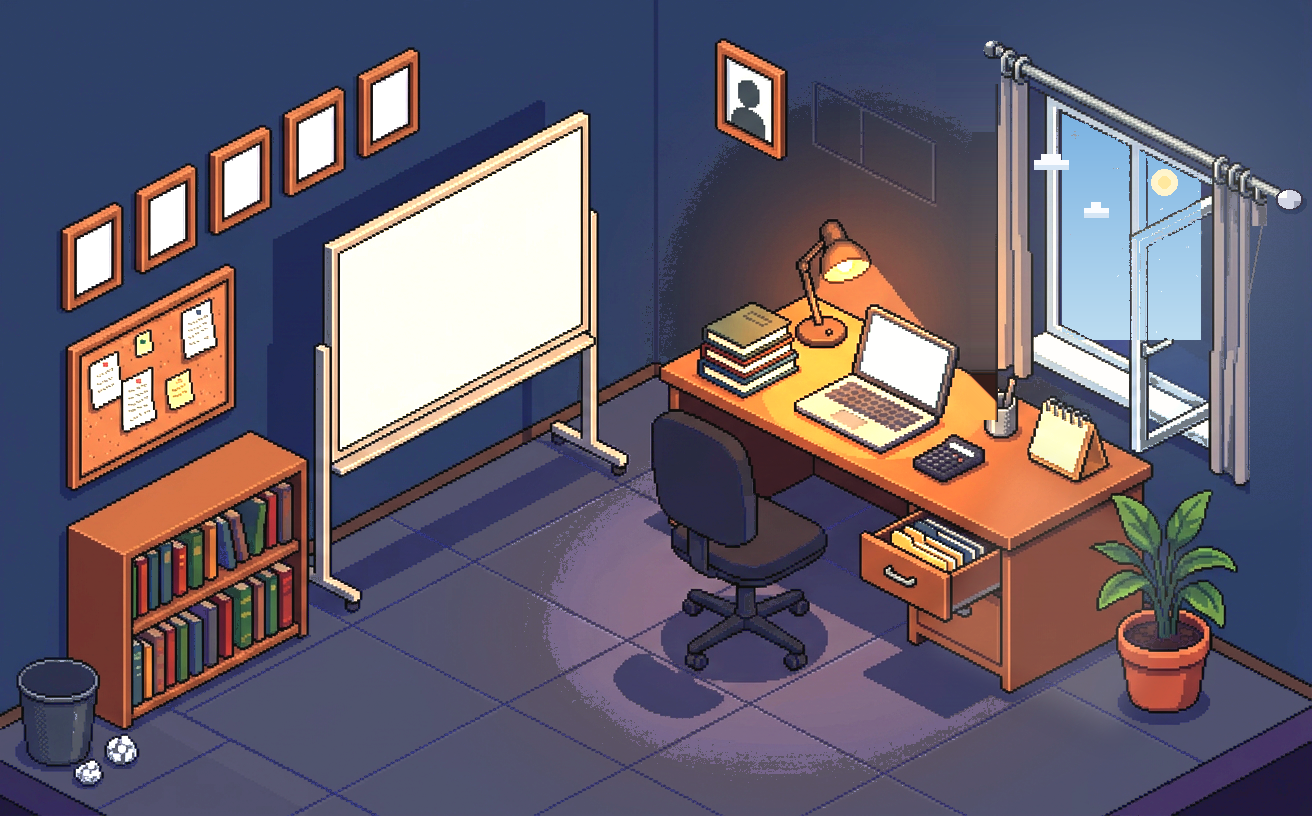
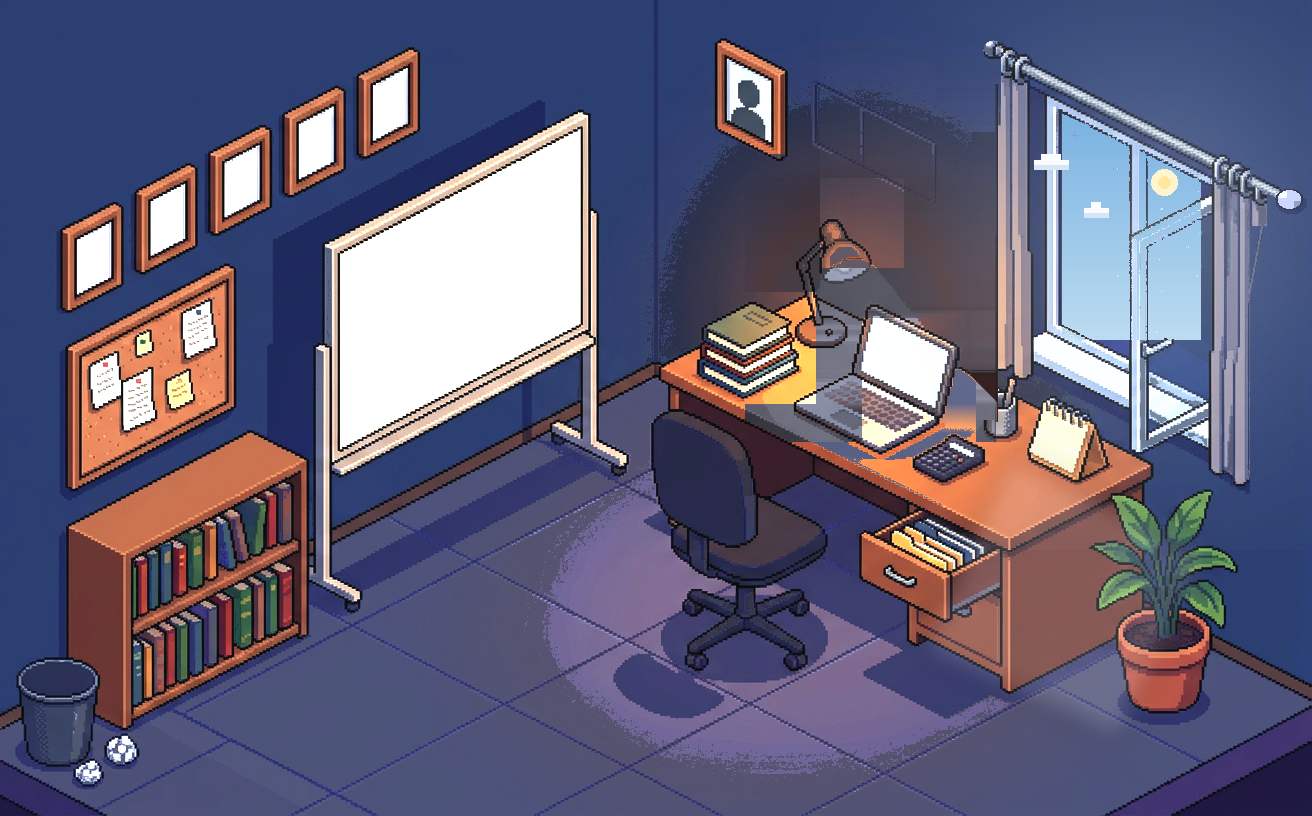
0.15.3: lampu meja mati saat siang — pencahayaan & bayangan dari cahaya jendela

diff --git a/docs/index.html b/docs/index.html
@@ -3,7 +3,7 @@
 <head>
 <meta charset="utf-8">
 <meta name="viewport" content="width=device-width, initial-scale=1">
-<title>Ruang Kelas 0.15.2 — launcher workspace</title>
+<title>Ruang Kelas 0.15.3 — launcher workspace</title>
 <style>
   :root{
     --ink:#0E0D1A; --night:#15142A; --navy:#1D1C36; --panel:#272647;
@@ -33,7 +33,7 @@
 </head>
 <body>
 <header>
-  <h1>Ruang Kelas 0.15.2 · Launcher</h1>
+  <h1>Ruang Kelas 0.15.3 · Launcher</h1>
   <div class="sub">
     Satu layar saja: gambar workspace isometrik ukuran penuh. Tidak ada sidebar, tab, header,
     atau panel. Setiap objek di gambar bisa diketuk dan akan membuka aplikasi bawaannya —
@@ -42,10 +42,10 @@
     Kalender meja lebih tebal dan halamannya melipat saat tanggal berganti, gorden serta
     daun tanaman bergoyang, rel gorden jadi penunjuk baterai dengan persentase tertulis di
     dinding, dan ruangan ikut terang saat jam perangkat menunjukkan siang.
-    Di versi 0.15.2 gorden kiri dan relnya kembali ringkas — kain kiri 36 px (dari 58 px)
+    Di versi 0.15.3 gorden kiri dan relnya kembali ringkas — kain kiri 36 px (dari 58 px)
     dan rel mulai di ujung jendela, jadi dinding kiri tidak lagi tertutup.
   </div>
-  <a class="cta" href="../dist/RuangKelas-0.15.2-debug.apk" download>⬇ Unduh APK 0.15.2</a>
+  <a class="cta" href="../dist/RuangKelas-0.15.3-debug.apk" download>⬇ Unduh APK 0.15.3</a>
 </header>
 
 <main>

diff --git a/tools/scene_face.py b/tools/scene_face.py
@@ -43,20 +43,34 @@ BG_DARK_ADD = 7.0
 NIGHT = dict(gamma=1.45, sat=0.85)
 
 # Cahaya siang: eksposur dinaikkan (bukan gamma — gamma memunculkan bercak
-# dithering), warna tetap pekat, lalu ditambah "pendar" hangat di sekitar jendela
-# dan pantulan matahari di lantai. Ruangan jadi terasa siang tanpa merusak palet
-# navy yang memang dipakai aplikasi.
+# dithering), lalu ruangan digrade dingin-kebiruan karena satu-satunya sumber
+# cahaya adalah langit di luar jendela: pendar biru-putih di sekitar jendela dan
+# pantulan cahaya jendela di lantai. Lampu meja mati di siang (lihat lamp_off).
 DAY_GAIN = 1.50
 DAY_ADD = 0.05
-DAY_WB = (1.03, 1.00, 0.95)
-DAY_SAT = 1.08
-DAY_BLOOM = dict(center=(1140, 230), radius=300, colour=(255, 247, 226), alpha=0.30)
+DAY_WB = (0.98, 1.00, 1.05)
+DAY_SAT = 1.06
+DAY_BLOOM = dict(center=(1140, 230), radius=320, colour=(240, 246, 255), alpha=0.34)
 DAY_FLOOR = dict(
     points=[(1010, 452), (1210, 552), (1120, 742), (918, 650)],
-    colour=(255, 244, 220),
-    alpha=0.13,
-    blur=14,
+    colour=(244, 248, 255),
+    alpha=0.17,
+    blur=12,
 )
+
+# Lampu meja: bohlam menyala + berkas hangat di dinding. Zona ini hanya dipakai
+# saat mode siang — lampu dimatikan dan cahayanya diganti cahaya jendela.
+BULB_BOX = (826, 202, 912, 292)     # bohlam + bukaan tudung menyala
+SHADE_BOX = (820, 178, 904, 268)    # tudung lampu (tidak diusik kecuali bohlam)
+ARM_BOX = (838, 246, 922, 414)      # lengan + kaki lampu
+BOOKS_BOX = (742, 292, 816, 404)    # tumpukan buku (tidak diusik)
+GLOW_BOX = (745, 196, 996, 442)     # dinding kena cahaya lampu (kiri gorden)
+GLOW_TOP = (770, 154, 996, 200)     # dinding atas (mencakup halo di atas tudung)
+LAPTOP_BOX = (862, 318, 976, 470)   # laptop: tetap cerah kena cahaya jendela
+DESK_GLOW_BOX = (745, 372, 1010, 505)  # meja kiri yang kena cahaya lampu
+DESK_SHADED = (1190, 430, 1258, 486)  # sampel meja tak kena cahaya (target lerp)
+BEAM_BOX = (918, 303, 990, 433)     # ujung berkas lampu yang jatuh ke meja
+WALL_REF = (700, 742)               # strip dinding bersih: sumber warna refill
 
 
 def grade(im, gamma, sat):
@@ -198,6 +212,126 @@ def paint_day_sky(im, mask_from=None):
 
 # --------------------------------------------------------------------- publik
 
+def _in_box(x, y, box):
+    return box[0] <= x < box[2] and box[1] <= y < box[3]
+
+
+def lamp_off(im):
+    """Matikan lampu meja (semua per piksel supaya tekstur dinding tetap hidup).
+
+    1. Halo & berkas hangat lampu di dinding digeser jadi dingin (cahaya
+       jendela), makin dekat gorden makin lembut; lalu piksel yang masih
+       menyala-terang disamakan lumanya ke strip dinding bersih di kiri.
+    2. Bohlam & bukaan tudung dimatikan.
+    3. Kilau hangat di lengan lampu jadi logam netral.
+    4. Berkas yang jatuh ke meja (kanan laptop) direduksi.
+    5. Meja kiri yang kuning kena lampu dilerp ke meja yang hanya kena
+       cahaya jendela, dengan tepi zona difade supaya tidak ada batas kotak.
+    """
+    px = im.load()
+
+    # 1) dinding: netralkan halo hangat
+    for zone in (GLOW_TOP, GLOW_BOX):
+        for y in range(zone[1], zone[3]):
+            for x in range(zone[0], zone[2]):
+                if (_in_box(x, y, SHADE_BOX) or _in_box(x, y, BOOKS_BOX)
+                        or _in_box(x, y, LAPTOP_BOX)):
+                    continue
+                r, g, b = px[x, y]
+                if max(r, g, b) < 34:
+                    continue  # outline gelap
+                d = r - b
+                if d <= 18:
+                    continue  # memang sudah dingin
+                l = 0.299 * r + 0.587 * g + 0.114 * b
+                tr, tg, tb = l * 0.88, l * 0.92, l * 1.06
+                t = min(0.9, 0.15 + (d - 14) / 30.0 * 0.95)
+                j = ((x * 7 + y * 13) % 3) - 1
+                px[x, y] = (int(r + (tr - r) * t) + j,
+                            int(g + (tg - g) * t) + j,
+                            int(b + (tb - b) * t) + j)
+
+    # 1b) piksel yang masih lebih terang dari strip acuan direduksi
+    for y in range(GLOW_TOP[1], 442):
+        ref = [px[x, y] for x in range(*WALL_REF)]
+        rl = sum(0.299 * p[0] + 0.587 * p[1] + 0.114 * p[2] for p in ref) / len(ref)
+        target = rl * 1.08
+        for x in range(GLOW_BOX[0], GLOW_BOX[2]):
+            if (_in_box(x, y, SHADE_BOX) or _in_box(x, y, BOOKS_BOX)
+                    or _in_box(x, y, LAPTOP_BOX)):
+                continue
+            r, g, b = px[x, y]
+            if max(r, g, b) < 34:
+                continue
+            l = 0.299 * r + 0.587 * g + 0.114 * b
+            if l <= target:
+                continue
+            k = max(0.5, min(1.0, target / l))
+            px[x, y] = (min(255, int(r * k)), min(255, int(g * k)), min(255, int(b * k)))
+
+    # 2) bohlam & bukaan tudung mati
+    x0, y0, x1, y1 = BULB_BOX
+    for y in range(y0, y1):
+        for x in range(x0, x1):
+            r, g, b = px[x, y]
+            if (r > 140 and r - b > 15) or min(r, g, b) > 185:
+                px[x, y] = (56, 48, 52)
+
+    # 3) lengan lampu jadi logam netral
+    ax0, ay0, ax1, ay1 = ARM_BOX
+    for y in range(ay0, ay1):
+        for x in range(ax0, ax1):
+            r, g, b = px[x, y]
+            if r > 130 and r - b > 40:
+                l = 0.299 * r + 0.587 * g + 0.114 * b
+                px[x, y] = (int(l * 0.94), int(l * 0.92), int(l * 0.98))
+
+    # 4) berkas di meja (kanan laptop) dilerp ke meja cahaya-jendela
+    _tp2 = [px[x, y] for y in range(DESK_SHADED[1], DESK_SHADED[3])
+            for x in range(DESK_SHADED[0], DESK_SHADED[2])]
+    dr2 = sum(p[0] for p in _tp2) / len(_tp2)
+    dg2 = sum(p[1] for p in _tp2) / len(_tp2)
+    db2 = sum(p[2] for p in _tp2) / len(_tp2)
+    bx0, by0, bx1, by1 = BEAM_BOX
+    for y in range(by0, by1):
+        for x in range(bx0, bx1):
+            r, g, b = px[x, y]
+            d = r - b
+            l = 0.299 * r + 0.587 * g + 0.114 * b
+            if d > 60 and l > 110:
+                t = min(1.0, (d - 60) / 50.0 * 0.55 + 0.35)
+                t *= min(1.0, (by1 - y) / 30.0)   # fade di bawah (menyatu ke meja terang)
+                t *= min(1.0, (x - bx0 + 1) / 22.0)
+                j = ((x * 7 + y * 13) % 5) - 2
+                px[x, y] = (int(r + (dr2 - r) * t) + j,
+                            int(g + (dg2 - g) * t) + j,
+                            int(b + (db2 - b) * t) + j)
+
+    # 5) meja kiri yang kuning kena lampu dilerp ke meja cahaya-jendela
+    dx0, dy0, dx1, dy1 = DESK_GLOW_BOX
+    tp = [px[x, y] for y in range(DESK_SHADED[1], DESK_SHADED[3])
+          for x in range(DESK_SHADED[0], DESK_SHADED[2])]
+    dr = sum(p[0] for p in tp) / len(tp)
+    dg = sum(p[1] for p in tp) / len(tp)
+    db = sum(p[2] for p in tp) / len(tp)
+    for y in range(dy0, dy1):
+        for x in range(dx0, dx1):
+            if _in_box(x, y, BOOKS_BOX) or _in_box(x, y, ARM_BOX):
+                continue
+            r, g, b = px[x, y]
+            d = r - b
+            l = 0.299 * r + 0.587 * g + 0.114 * b
+            if d > 92 and l > 118:
+                t = min(1.0, (d - 92) / 55.0 * 0.5 + 0.5)
+                t *= min(1.0, (y - dy0 + 1) / 26.0)          # fade tepi atas
+                t *= min(1.0, (dx1 - x) / 42.0)              # fade tepi kanan
+                j = ((x * 7 + y * 13) % 5) - 2
+                px[x, y] = (int(r + (dr - r) * t) + j,
+                            int(g + (dg - g) * t) + j,
+                            int(b + (db - b) * t) + j)
+    return im
+
+
 def add_daylight(im):
     """Terangkan ruangan seperti siang tanpa memunculkan bercak.
 
@@ -238,7 +372,7 @@ def load_scene(mode="night"):
     raw = Image.open(ART).convert("RGB")
     im = restyle_background(grade(raw, NIGHT["gamma"], NIGHT["sat"]))
     if mode == "day":
-        base = im
+        base = lamp_off(im)
         im = add_daylight(base)
         im = paint_day_sky(im, mask_from=base)
     return im

diff --git a/README.md b/README.md
@@ -5,21 +5,22 @@ satu layar berisi gambar workspace isometrik ukuran penuh. Tanpa sidebar, tanpa 
 tanpa header, tanpa panel. Setiap objek di gambar bisa diketuk untuk membuka aplikasi
 bawaannya — aplikasi itu dibuat menyusul, satu per satu.
 
-**Status: v0.15.2 — jam analog dihapus, tinggal jam digital dinding yang sejajar dan
+**Status: v0.15.3 — jam analog dihapus, tinggal jam digital dinding yang sejajar dan
 setinggi bingkai foto; bendera Indonesia menempel di kanannya; papan tulis memakai
 judul "Jadwal Mengajar"; kalender meja lebih tebal dan halamannya melipat saat tanggal
 berganti; jendela tanpa palang dengan gorden & daun tanaman yang bergoyang; rel gorden
 jadi penunjuk baterai dengan persentase tertulis di dinding; tempat sampah membuka
 file manager; suasana siang/malam mengikuti jam perangkat.**
 
-Perbaikan 0.15.2: sisi kanan ikut dirapikan — kain gorden kanan dipotong 20 px (tepi ke x1246),
-knob rel diganti yang kecil, dan area guncang gorden tidak lagi menyeret rel+knob; sisi kiri:
+Perbaikan 0.15.3: saat siang lampu meja MATI — pencahayaan ruangan datang dari
+jendela (gradasi dingin kebiruan, pantulan cahaya jendela di lantai, bayangan jatuh
+ke kanan-bawah). Malam tetap lampu menyala. Dan sebelumnya, sisi kanan gorden:
 kain 36 px (dari 58 px) dan rel mulai tepat di ujung jendela sehingga dinding kiri
 tidak lagi tertutup; garis rel dan angka persentase dibuat lebih tipis/kecil.
 
 | | |
 |---|---|
-| APK siap pasang | [`dist/RuangKelas-0.15.2-debug.apk`](dist/RuangKelas-0.15.2-debug.apk) |
+| APK siap pasang | [`dist/RuangKelas-0.15.3-debug.apk`](dist/RuangKelas-0.15.3-debug.apk) |
 | Build otomatis | [`.github/workflows/android.yml`](.github/workflows/android.yml) |
 | Bukti jalan | [`docs/index.html`](docs/index.html) · [`docs/screens/`](docs/screens) |
 | Prototipe HTML lama | [`preview-ruang-kelas.html`](preview-ruang-kelas.html) (acuan desain) |
@@ -28,7 +29,7 @@ tidak lagi tertutup; garis rel dan angka persentase dibuat lebih tipis/kecil.
 
 ## Cara memasang
 
-1. Unduh `dist/RuangKelas-0.15.2-debug.apk`, buka di tablet, izinkan "instal dari sumber ini".
+1. Unduh `dist/RuangKelas-0.15.3-debug.apk`, buka di tablet, izinkan "instal dari sumber ini".
 2. Buka **Ruang Kelas** — launcher langsung tampil penuh, landscape, tanpa system bar.
 
 ## Mode landscape
@@ -124,7 +125,7 @@ setiap hotspot berada tepat di atas objeknya dan muka jam/kalender terisi.
 ## Struktur
 
 ```
-art/workspace-iso-v7c.png         gambar isometrik terkini 1312 × 816 (gorden kiri ringkas, 0.15.2)
+art/workspace-iso-v7c.png         gambar isometrik terkini 1312 × 816 (gorden kiri ringkas, 0.15.3)
 art/workspace-iso-v6.png          gambar sebelumnya (arsip)
 art/workspace-iso-v5.png          gambar sebelumnya (arsip)
 art/workspace-iso-v4.png          percobaan sebelumnya (arsip)
@@ -151,6 +152,6 @@ cd android && gradle :app:assembleDebug
 ```
 
 GitHub Actions menjalankan hal yang sama, menyimpan APK ke `dist/`, dan memperbarui
-release `v0.15.2-android`. Workflow kedua (`android-preview.yml`, dipicu
+release `v0.15.3-android`. Workflow kedua (`android-preview.yml`, dipicu
 `.ci/preview.trigger`) memasang APK di emulator tablet 2560 × 1600, memotret launcher,
 mengetuk beberapa objek, lalu menyimpan screenshot ke `docs/screens/`.
